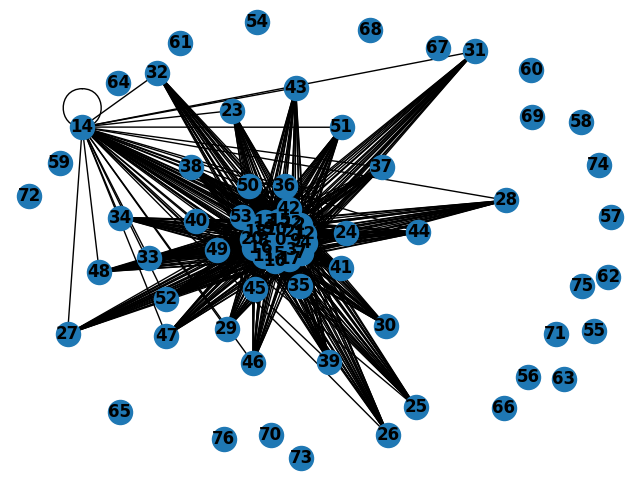
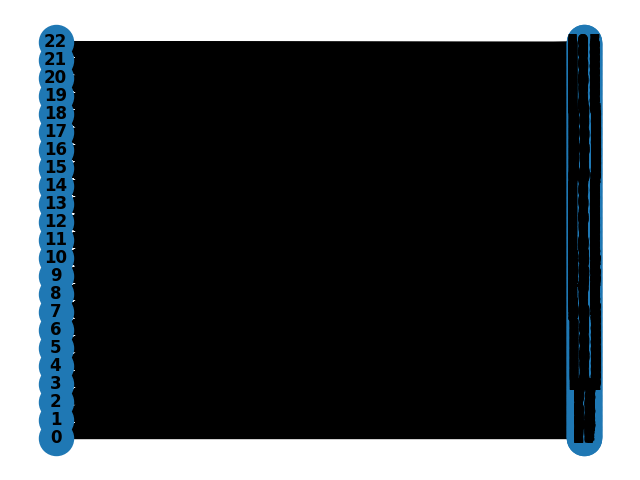
adds fiedler vaue extraction using netorkx

diff --git a/graph_utils.py b/graph_utils.py
@@ -1,37 +1,37 @@
-import networkx as nx
 import matplotlib.pyplot as plt
 import numpy as np
+import networkx as nx
 
-def draw_graph(G):
-	nx.draw(G, with_labels=True, font_weight="bold")
+def draw_graph(G, n_answer_tokens):
+	pos = nx.drawing.layout.bipartite_layout(G, range(n_answer_tokens))
+
+	nx.draw(G, pos=pos, node_size=600, with_labels=True, font_weight="bold")
 	plt.savefig("./graph.png")
 
-def create_graph(matrix, type="vision", draw=False):
+def create_graph(matrix, type="visual", draw=False):
 	"""
 		Creates graph from the given attention matrix. The type is used to change color for visual representation of the graph.
 	"""
 	# TODO: create a graph between answer and answer tokens too
 	n_answer_tokens, n_type_tokens = matrix.shape
-	answer_color, type_color = "blue", "green" if type == "visual" else "red"
+	answer_color, type_color = "blue", ("green" if type == "visual" else "red")
 
 	# initializing the graph
 	G = nx.Graph()
 
 	# creating the nodes for answer tokens
-	G.add_nodes_from([(i, {"color": answer_color}) for i in range(n_answer_tokens)])
+	G.add_nodes_from([(i, {"color": answer_color}) for i in range(n_answer_tokens)], bipartite=0)
 	
 	# creating the nodes for type tokens
-	G.add_nodes_from([(i, {"color": type_color}) for i in range(n_answer_tokens, n_answer_tokens+n_type_tokens)])
+	G.add_nodes_from([(i, {"color": type_color}) for i in range(n_answer_tokens, n_answer_tokens+n_type_tokens)], bipartite=1)
 
 	# assigning the edges between answer tokens and type tokens
 	for a in range(n_answer_tokens):
 		a_lists = np.repeat(a, n_type_tokens)
-		edges = zip(a_lists, range(n_type_tokens), matrix[a])
+		edges = zip(a_lists, range(n_answer_tokens, n_answer_tokens+n_type_tokens), matrix[a])
 		G.add_weighted_edges_from(edges)
 
 	if draw:
-		draw_graph(G)
-
-	breakpoint()
+		draw_graph(G, n_answer_tokens)
 
 	return G

diff --git a/extract-fiedler.py b/extract-fiedler.py
@@ -1,7 +1,8 @@
 import pickle
 import numpy as np
 
-from graph_utils import create_graph
+from graph_utils import create_graph, draw_graph
+import networkx as nx
 
 attention_matrices_path = "/scratch/noli1/graph_hallucination_detection/results/llava-med-v1.5-mistral-7b_test"
 
@@ -20,6 +21,7 @@ def load_attention_matrices(sample: int, layer: int, head: int) -> (np.array, np
 
 	key = f"layer_{layer}_head_{head}"
 	text_matrix, visual_matrix = text_matrices[key], visual_matrices[key]
+	text_matrix, visual_matrix = text_matrix.astype(np.float32), visual_matrix.astype(np.float32)
 	
 	return text_matrix, visual_matrix	
 
@@ -28,3 +30,22 @@ layer, head = 0, 0
 
 text_matrix, visual_matrix = load_attention_matrices(sample_index, layer, head)
 text_graph, visual_graph = create_graph(text_matrix, "text"), create_graph(visual_matrix, "visual")
+
+# text_feidler_vector, visual_fiedler_vector = nx.fiedler_vector(text_graph, normalized=True, seed=0), nx.fielder_vector(visual_graph, normalized=True, seed=0)
+
+class FiedlerValue:
+	seed = 0
+
+	@classmethod
+	def using_networkx(cls, G):
+		"""
+			Takes too long more than 30 minutes but no results for single graph
+		"""
+		return nx.algebraic_connectivity(G, weight="weight",	 normalized=True, seed=G.seed)
+
+	@classmethod
+	def using_torch(cls, matrix, device="cuda"):
+		assert(type(matrix) == np.ndarray)
+		return 0.0
+
+print(FiedlerValue.using_torch(text_matrix))
